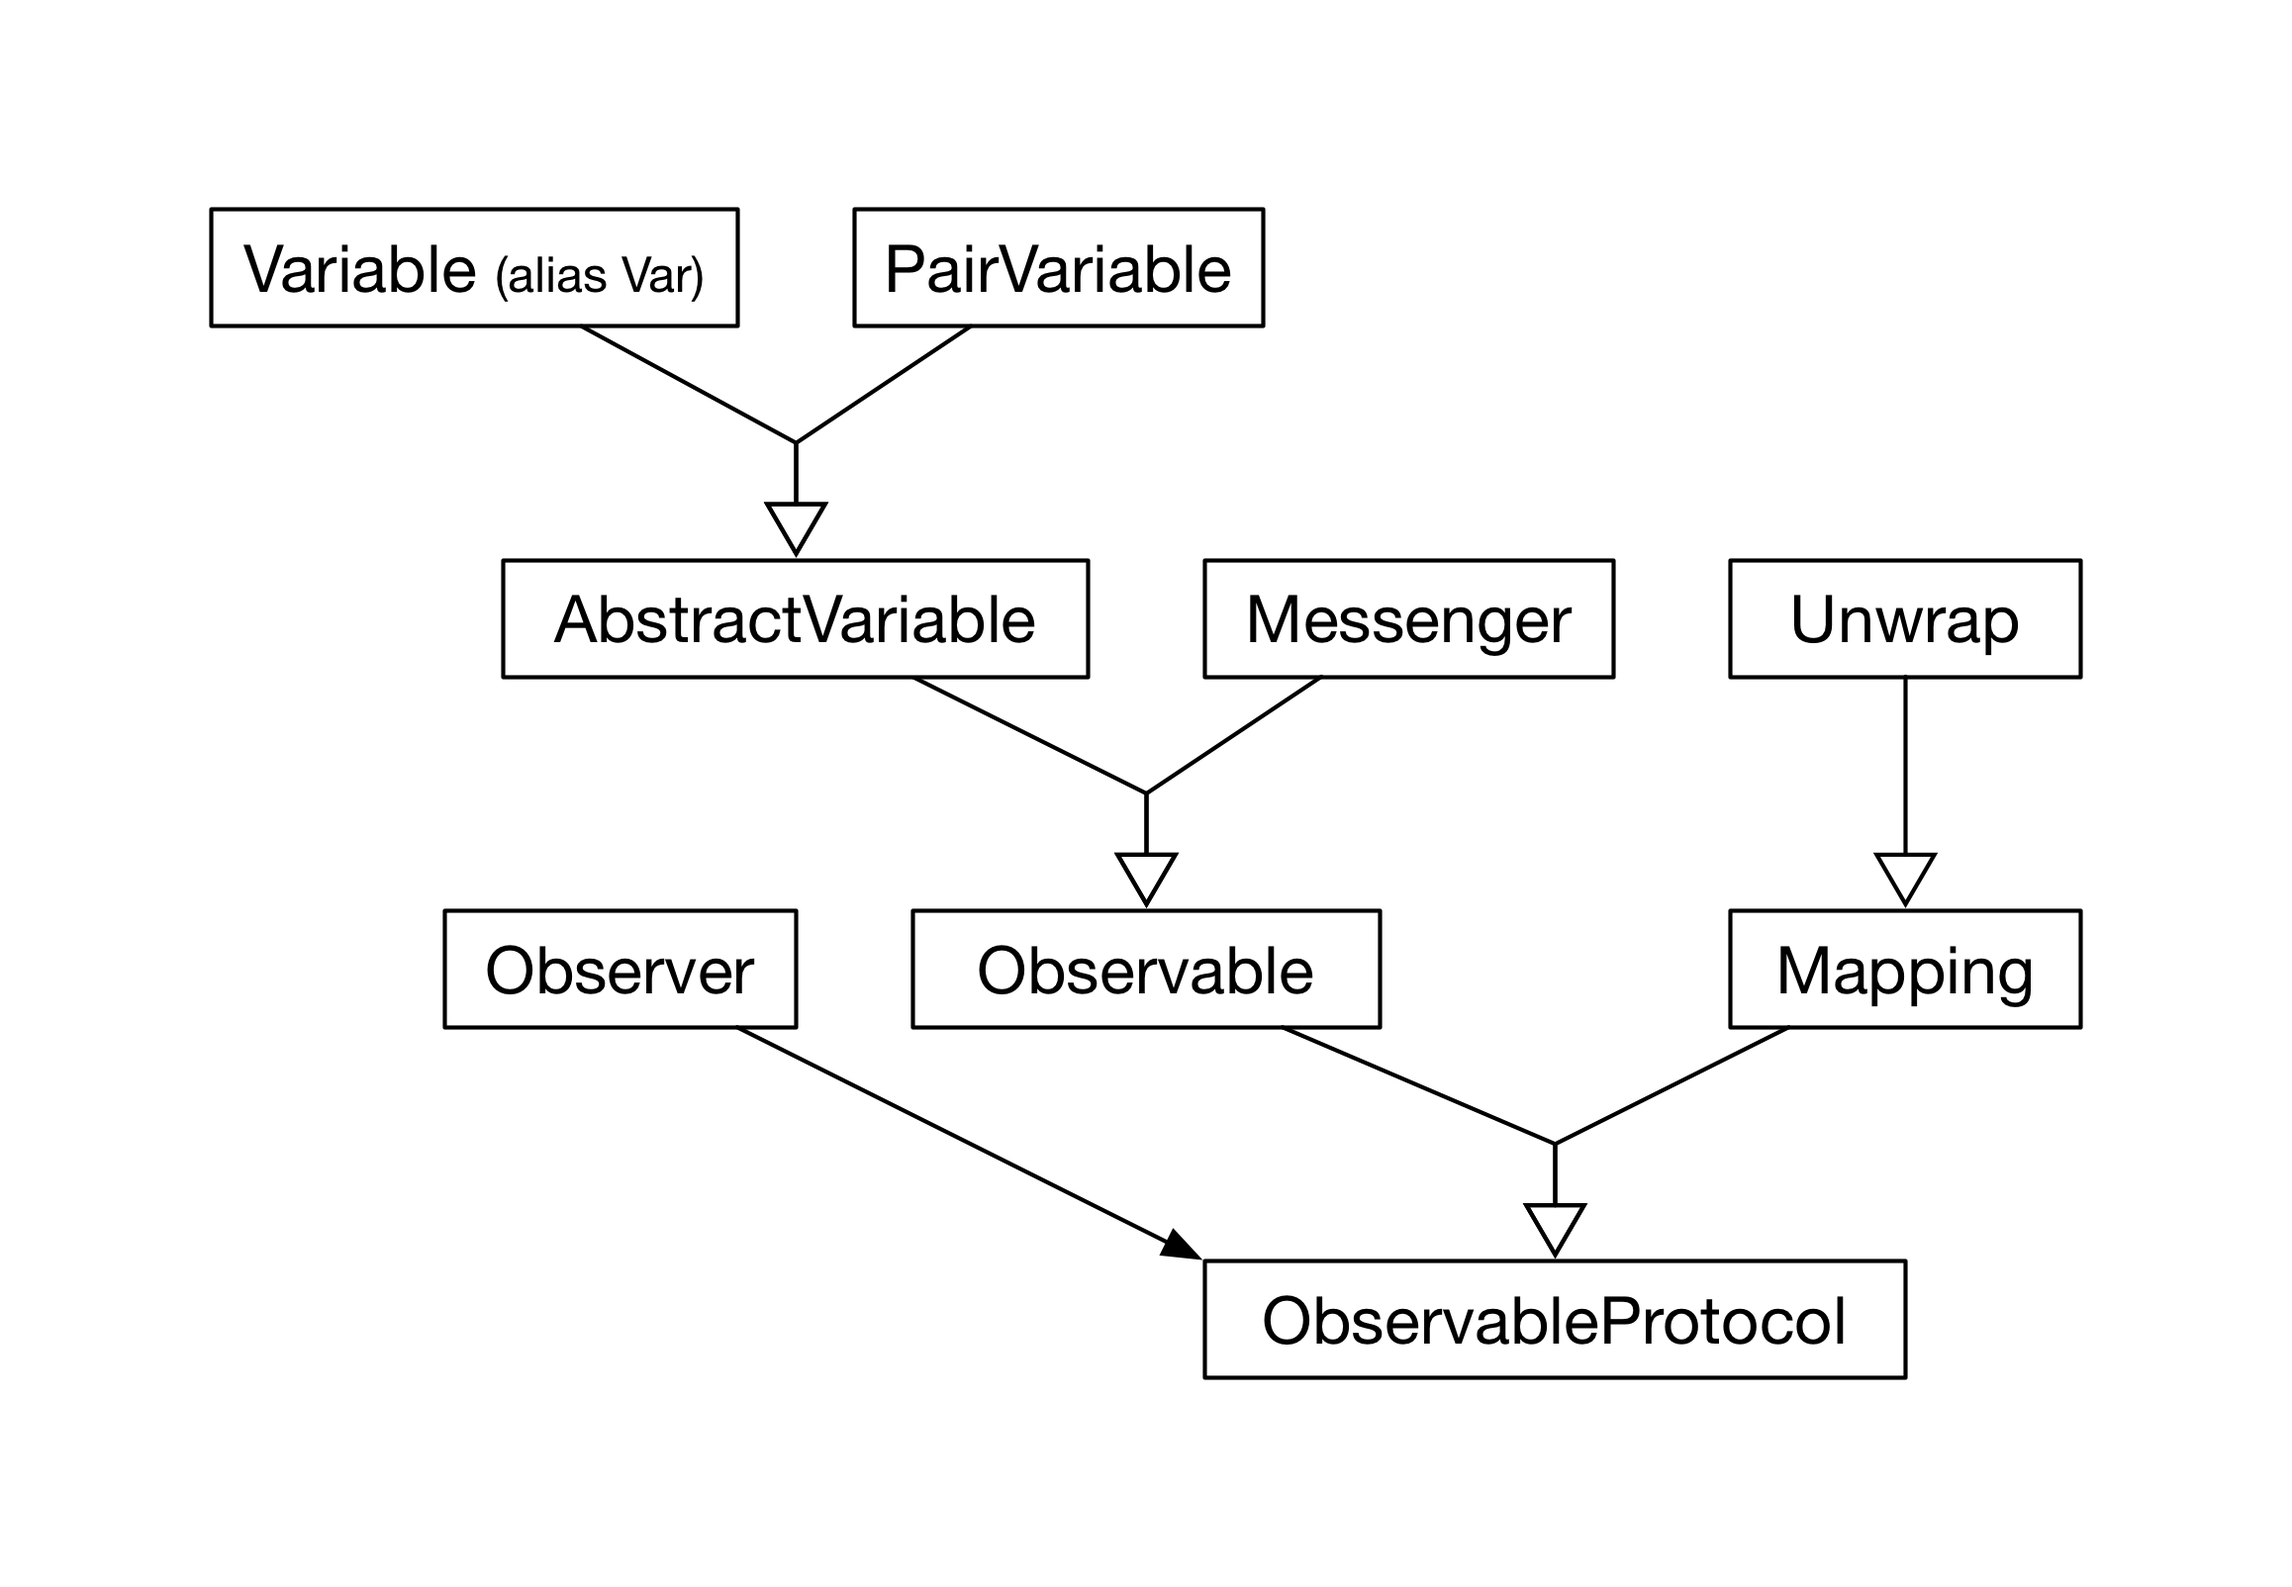
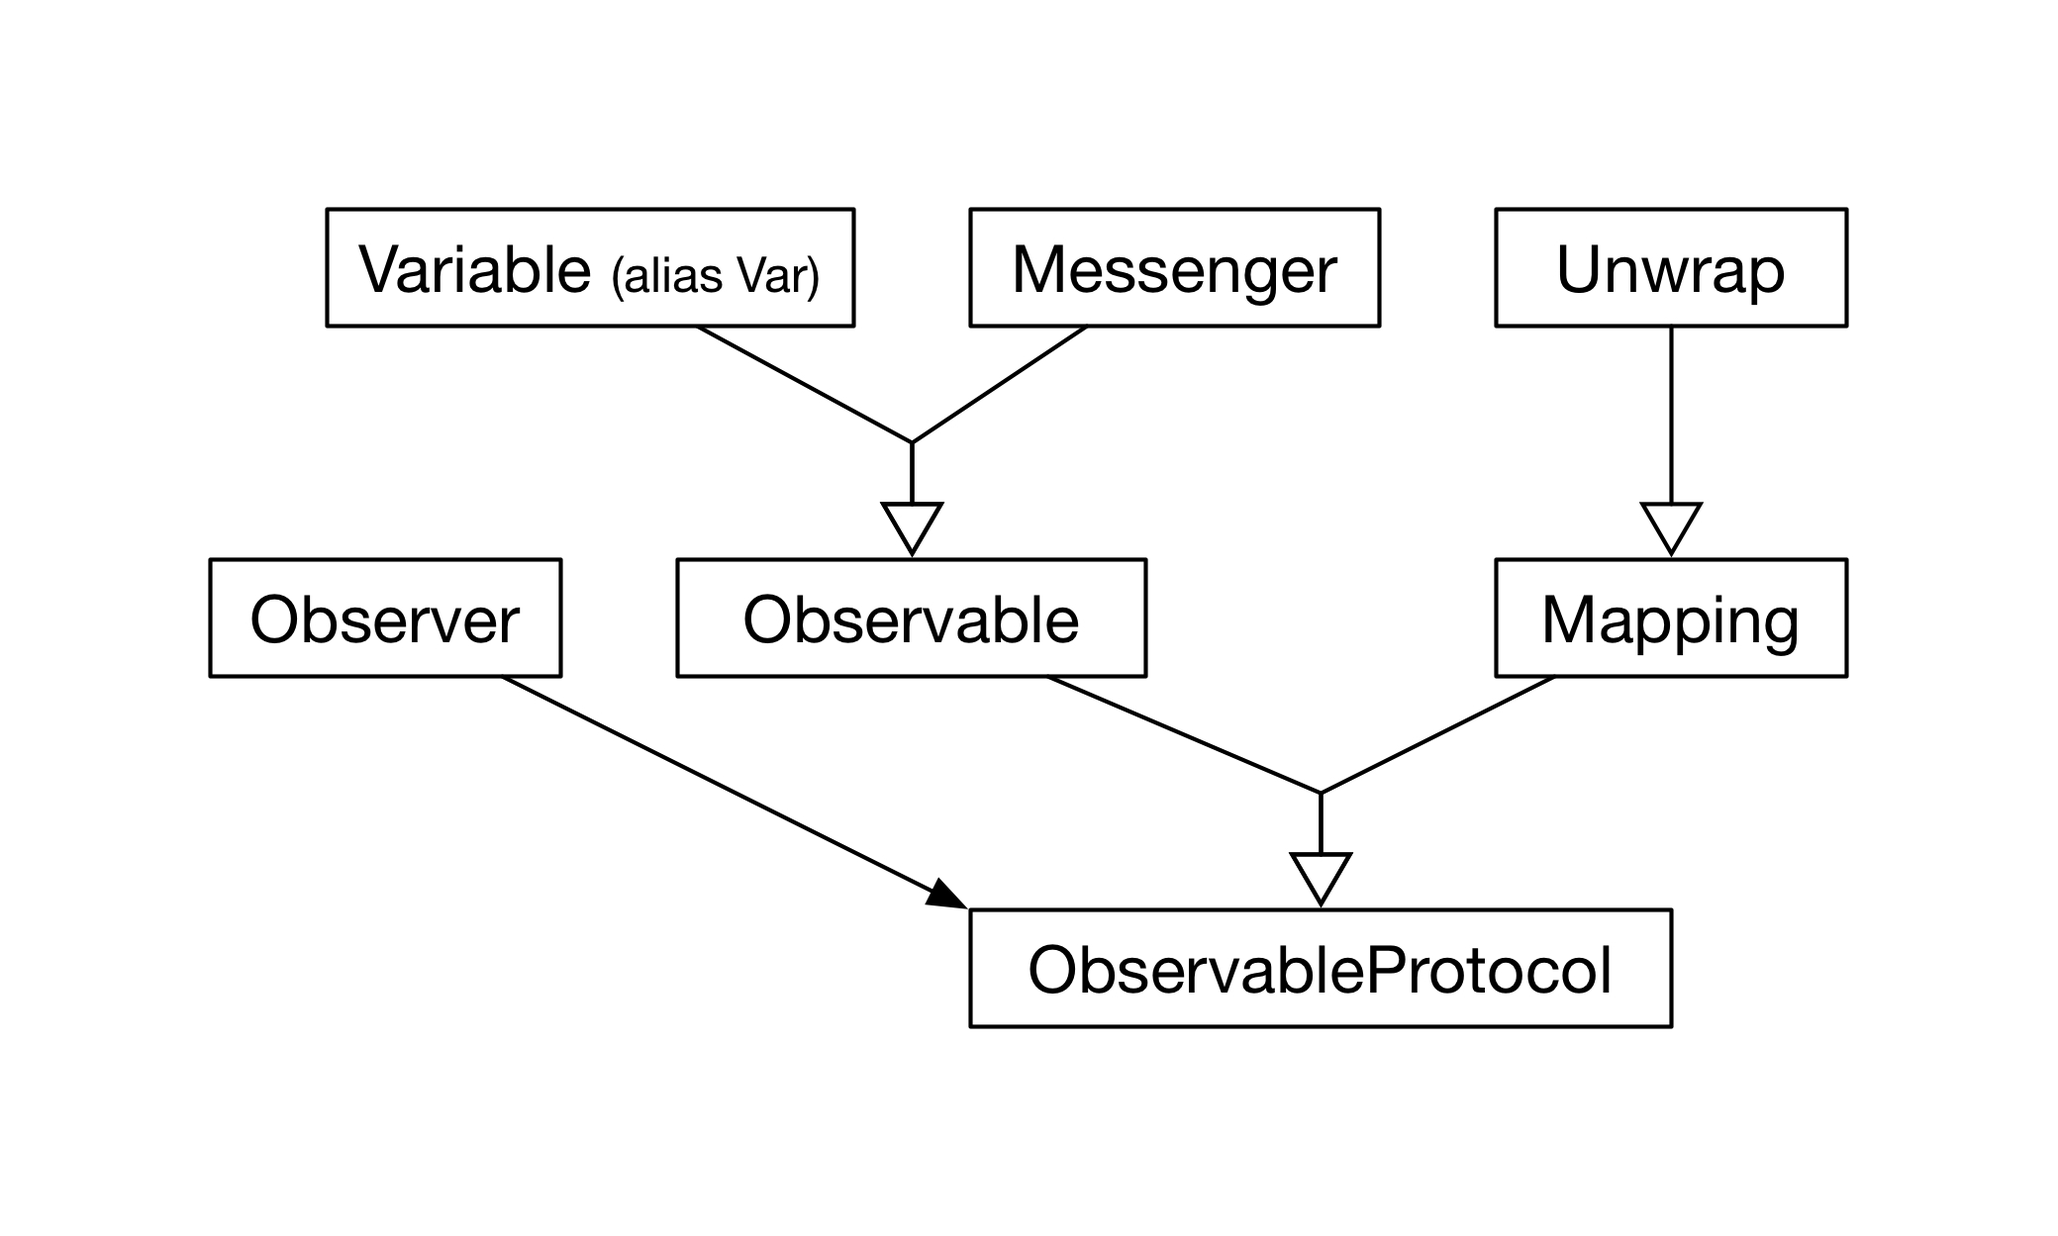
remove combined variable in preparation of combined observable

diff --git a/Code/Variable.swift b/Code/Variable.swift
@@ -1,31 +1,56 @@
+infix operator <-: AdditionPrecedence
+
+@discardableResult
+public func <-<Value>(variable: Var<Value>?,
+                      value: Value?) -> Var<Value>?
+{
+    variable?.value = value
+    return variable
+}
+
 public typealias Var = Variable
 
-public class Variable<Value: Equatable & Codable>: AbstractVariable<Value?>, Codable
+public class Variable<Value: Equatable & Codable>: Observable, Codable
 {
     // MARK: Initialization
     
-    public override init(_ value: Value? = nil)
+    public init(_ value: Value? = nil)
     {
-        super.init(nil)
-        
         storedValue = value
+    }
+    
+    // MARK: Send Update When Observation Starts
+    
+    public func add(_ observer: AnyObject,
+                    _ receive: @escaping (UpdateType) -> Void)
+    {
+        ObservationService.add(observer, of: self)
+        {
+            guard let update = $0 as? UpdateType else
+            {
+                fatalError("Impossible error: could not cast update type received from observation center")
+            }
+            
+            receive(update)
+        }
+        
+        receive(latestUpdate)
     }
     
     // MARK: Codability
     
-    public required init(from decoder: Decoder) throws
-    {
-        let values = try decoder.container(keyedBy: CodingKeys.self)
-        storedValue = try values.decode(Value.self, forKey: .storedValue)
-        
-        super.init(storedValue)
-    }
-    
     private enum CodingKeys: String, CodingKey { case storedValue }
     
     // MARK: Value
+
+    public var latestUpdate: Update<Value?>
+    {
+        let currentValue = value
+        
+        return Update(currentValue, currentValue)
+    }
     
-    public override var value: Value?
+    public var value: Value?
     {
         get { return storedValue }
         

diff --git a/Tests/SwiftObserverTests.swift b/Tests/SwiftObserverTests.swift
@@ -72,6 +72,7 @@ class SwiftObserverTests: XCTestCase
         XCTAssertEqual(receivedMessage, expectedMessage)
     }
     
+    /*
     func testPairRetainsItsVariables()
     {
         var v1: Var<Int>? = Var(1)
@@ -90,6 +91,7 @@ class SwiftObserverTests: XCTestCase
             XCTAssert(false)
         }
     }
+     */
 
     func testHowToUseOptionalVariables()
     {
@@ -195,6 +197,7 @@ class SwiftObserverTests: XCTestCase
         XCTAssertEqual(observedNewValue, expectedNewValue)
     }
     
+    /*
     func testObservingPairVariableTriggersUpdate()
     {
         let combinedVariable = Var("Text 1") + Var(7) + Var("Text 2")
@@ -212,6 +215,7 @@ class SwiftObserverTests: XCTestCase
             XCTAssertEqual(update.new.right, "Text 2")
         }
     }
+    */
     
     func testObservableMapping()
     {
@@ -223,6 +227,7 @@ class SwiftObserverTests: XCTestCase
         model.send(.didUpdate)
     }
     
+    /*
     func testSettingValueOnPairVariableTriggersUpdate()
     {
         model.text <- "old"
@@ -273,7 +278,7 @@ class SwiftObserverTests: XCTestCase
         XCTAssertTrue(didUpdateNumber)
         XCTAssertEqual(numberOfObservations, 3)
     }
-    
+ 
     func testSettingNestedValueOnPairVariable()
     {
         let combinedVariable = Var(0.75) + Var("text") + Var(10)
@@ -282,6 +287,7 @@ class SwiftObserverTests: XCTestCase
         
         XCTAssertEqual(combinedVariable.value.left.right, "new")
     }
+    */
     
     func testObservingTwoObservablesTriggersUpdate()
     {

diff --git a/readme.md b/readme.md
@@ -19,15 +19,11 @@ There are some [unit tests of SwiftObserver](https://github.com/flowtoolz/SwiftO
 * [1. Keep It Simple Sweety](#kiss)
 * [2. The Easiest Memory Management](#memory)
 * [3. Variables](#variables)
-* [4. Create Variables as Combinations of Others](#pair-variables)
-* [5. Custom Observables](#custom-observables)
-* [6. Create Observables as Mappings of Others](#mappings)
-* [7. One Combine To Rule Them All](#combine)
-* [8. Messenger? Notifier? Dispatcher? It's All Observation](#messenger)
-* [9. Putting It All Together](#wrap-up)
-    - [Type Dependency Diagram](#diagram)
-    - [Why the Hell Another Reactive Library?](#why)
-    - [Ending Note: Focus On Meaning Not On Technicalities](#meaning)
+* [4. Custom Observables](#custom-observables)
+* [5. Create Observables as Mappings of Others](#mappings)
+* [6. One Combine To Rule Them All](#combine)
+* [7. Messenger? Notifier? Dispatcher? It's All Observation](#messenger)
+* [8. Why the Hell Another Reactive Library?](#why)
 
 ## <a id="installation"></a>Installation
 
@@ -71,13 +67,16 @@ Now let's look at some of the goodies of SwiftObserver ...
 * Any object can observe. But observers who adopt the `Observer` protocol can use more convenient functions for starting and ending observation.
 * There are 3 kinds of observable objects:
 
-	1. Variables, wich may be composed of other variables
+	1. Variables
 		
 	2. Custom observables, which conform to the `Observable` protocol
 		
 	3. Mappings from other observable objects
 
-	We'll get to each of these. First, something else...
+* SwiftObserver's types system is pretty simple:
+
+    <img src="https://raw.githubusercontent.com/flowtoolz/SwiftObserver/master/Documentation/TypeDependencies.jpg" style="width:100%;max-width:400px;display:block;margin-left:auto;margin-right:auto"/>
+    We'll get to each type. First, something else...
 
 ## <a id="memory"></a>2. The Easiest Memory Management
 
@@ -151,57 +150,7 @@ Now let's look at some of the goodies of SwiftObserver ...
 	}
 	~~~
 
-
-## <a id="pair-variables"></a>4. Create Variables as Combinations of Others
-
-* You can observe combinations of variables, which are actually recursive variable pairs. Like a simple variable of type `Var`, a `PairVariable` sends updates of type `Update<Value>`, only here the value is a `Pair<Value1, Value2>`, which holds values for both combined variables:
-
-	~~~swift
-	let textAndNumber = text + number
-
-	observer.observe(textAndNumber)
-	{
-	   update in
-		
-	   let newText = update.new.left
-	   let newNumber = update.new.right
-		
-	   // respond to latest text and number values
-	}
-	~~~
-	
-* Like with variables of type `Var`, you must hold a reference to a combined variable that you want to observe. The example above assumes that `textAndNumber` remains in scope during observation. However, observing an ad-hoc variable combination makes no sense at all:
-
-	~~~swift
-	observer.observe(Var("friday") + Var(13))
-	{
-	   update in
-		
-	   // FAIL! The observed variable has local scope and will deinit!
-	}
-	~~~
-
-* You can nest and store combined variables and set their values:
-
-	~~~swift
-	let combinedVariable = Var(0.75) + Var("text") + Var(10)
-	
-	combinedVariable <- Pair(Pair(0.33, "new"), 42)
-	~~~
-
-* You may use the `+++` operator for combining variable values. The last line from above can be written as: 
-
-	~~~swift
-	combinedVariable <- 0.33 +++ "new" +++ 42
-	~~~	
-	
-* A variable combination stores no value of its own. Instead it reads and sets the values of the variables it combines. So the above line changes the values of all three involved variables and would update all observers of these three.
-
-* A variable combination sends an update whenever one of the combined variables changes its value. Since variables send the old and new values in their updates, update handlers can easily determine the one variable that triggered the update.
-
-* A variable combination holds strong references to its combined variables. So you don't need to hold references to the combined variables - only to the resulting combination.
-
-## <a id="custom-observables"></a>5. Custom Observables
+## <a id="custom-observables"></a>4. Custom Observables
 
 * Custom observables just need to adopt the `Observable` protocol and provide a `var latestUpdate: UpdateType { get }` of the type of updates they wish to send:
 
@@ -216,7 +165,7 @@ Now let's look at some of the goodies of SwiftObserver ...
 	
 	Swift will infer the update type from `latestUpdate`, so you don't need to write `typealias UpdateType = Event`.
 
-* Combined variables as well as combined observation sometimes request the latest update from their constituting observables. Therefor, observables offer the `latestUpdate` property, which is also a way for other clients to actively get the current update state in addition to observing it.
+* Combined observations sometimes request the latest update from their constituting observables. Therefor, observables offer the `latestUpdate` property, which is also a way for other clients to actively get the current update state in addition to observing it.
 
 * The `latestUpdate` property should typically return the last update that was sent or a value that indicates that nothing changed. But it can be optional and may (always) return `nil`:
 
@@ -262,7 +211,7 @@ Now let's look at some of the goodies of SwiftObserver ...
 	~~~
 	
 
-## <a id="mappings"></a>6. Create Observables as Mappings of Others
+## <a id="mappings"></a>5. Create Observables as Mappings of Others
 
 * Create a new observable object by mapping a given one:
 
@@ -302,19 +251,19 @@ Now let's look at some of the goodies of SwiftObserver ...
 	}
 	~~~	
 
-* The default in `unwrap(default)` is only required for `latestUpdate` in accordance with the `ObservableProtocol`. It will only come into play when the unwrapped observable didn't trigger the update but just returned its latest update. Of course, this can only happen where multiple observables are being observed (combined observation or observation of combined variable).
+* The default in `unwrap(default)` is only required for `latestUpdate` in accordance with the `ObservableProtocol`. It will only come into play when the unwrapped observable didn't trigger the update but just returned its latest update. Of course, this can only happen where multiple observables are being observed (combined observation).
 
 	The above example is just a single observation and only `newestNumber` can trigger the update. When the `value` of `newestNumber` is set to `nil`, the `unwrap` mapping sends nothing to its obervers, not even the default `0`. So when `newInteger` is zero, the observer knows that it's a real value and not just a replacement for `nil`.
 	
 * Be aware that observing a mapping does not keep it alive. You must hold a strong reference to a mapping that you want to use.
 	
-* A mapping is not "composed" of the observable it maps (like a variable combination is composed of its combined variables). A mapping is just that: an access wrapper to the mapped observable.
+* A mapping is not "composed" of the observable it maps. A mapping is just that: an access wrapper to the mapped observable.
 	
 	That means a mapping holds a `weak` reference to its observable. You can check whether a mapping still has its observable via `mapping.hasObservable`.
 	
 * The nature of mappings also means an observer does not have to stop observing a mapping but could instead stop observing the mapped observable. A mapping forwards all calls to its observable and only maps observations and `latestUpdate`.
 
-## <a id="combine"></a>7. One Combine To Rule Them All
+## <a id="combine"></a>6. One Combine To Rule Them All
 
 * In addition to creating a new variable by combining others, you can also observe a combination of any observable objects and without creating a new object:
 
@@ -343,7 +292,7 @@ Now let's look at some of the goodies of SwiftObserver ...
 
 	Not having to duplicate data where multiple things must be observed is one of the reasons to use these combined observations. However, some reactive libraries choose to not make full use of object-oriented programming, so far that the combined observables could be value types. This forces these libraries to duplicate data by buffering the data sent from observables.
 	
-## <a id="messenger"></a>8. Messenger? Notifier? Dispatcher? It's All Observation
+## <a id="messenger"></a>7. Messenger? Notifier? Dispatcher? It's All Observation
 
 * When observer and observable need to be more decoupled, it is common to use a mediating observable through which any object can anonymously send updates. An example of this mediator is Foundation's `NotificationCenter`.
 
@@ -415,14 +364,8 @@ Now let's look at some of the goodies of SwiftObserver ...
         // respond to text update, number update and message
     }
     ~~~
-    
-## <a id="wrap-up"></a>9. Putting It All Together
 
-### <a id="diagram"></a>Type Dependency Diagram
-
-<img src="https://raw.githubusercontent.com/flowtoolz/SwiftObserver/master/Documentation/TypeDependencies.jpg" style="width:100%;max-width:400px;display:block;margin-left:auto;margin-right:auto"/>
-
-### <a id="why"></a>Why the Hell Another Reactive Library?
+## <a id="why"></a>8. Why the Hell Another Reactive Library?
 
 SwiftObserver diverges from convention. It follows the reactive idea in generalizing the observer pattern. But it doesn't inherit the metaphors, terms, types, or function- and operator arsenals of common reactive libraries. This freed us to create something we love.
 
@@ -434,8 +377,6 @@ What you might like:
 - No cancellables or tokens to pass around and store
 - Ability to pull current update from observable
 - Memory gets cleared even if the client/observer forgets to manage it
-- Combine variables with `+`
-- Set combined values back into combined variables
 - Use `<-` operator to directly set variable values
 - Recieve old *and* new value from variables
 - No distinction between "hot-" and "cold signals" necessary
@@ -444,7 +385,7 @@ What you might like:
 - Variables are `Codable`
 - Call observation and mappings directly on observables (no mediating property)
 - Seemless integration of the *Notifier Pattern*
-- No data duplication for combined observations or combined variables
+- No data duplication for combined observations
 - Custom observables without having to inherit from any class
 - Maximum freedom for your architectural- and design choices
 
@@ -456,7 +397,7 @@ What you might not like:
 - Observers and observables must be objects and cannot be structs. (Of course, variables can hold any type of values and observables can send any type of updates.)
 - For now, your code must hold strong references to observables that you want to observe. In other libraries, variable combinations or mappings would be kept alive as a side effect of being observed.
 
-### <a id="meaning"></a>Ending Note: Focus On Meaning Not On Technicalities
+### Ending Note: Focus On Meaning Not On Technicalities
 
 * Because classes have to implement nothing to be observable, you can keep model and logic code independent of any observer frameworks and techniques. If the model layer had to be stuffed with heavyweight constructs just to be observed, it would become a technical issue instead of an easy to change,  meaningful, direct representation of domain-, business- and view logic.
 * Unlike established Swift implementations of the Redux approach, [SwiftObserver](https://github.com/flowtoolz/SwiftObserver) lets you freely model your domain-, business- and view logic with all your familiar design patterns and types. There are no restrictions on how you organize and store your app state.
